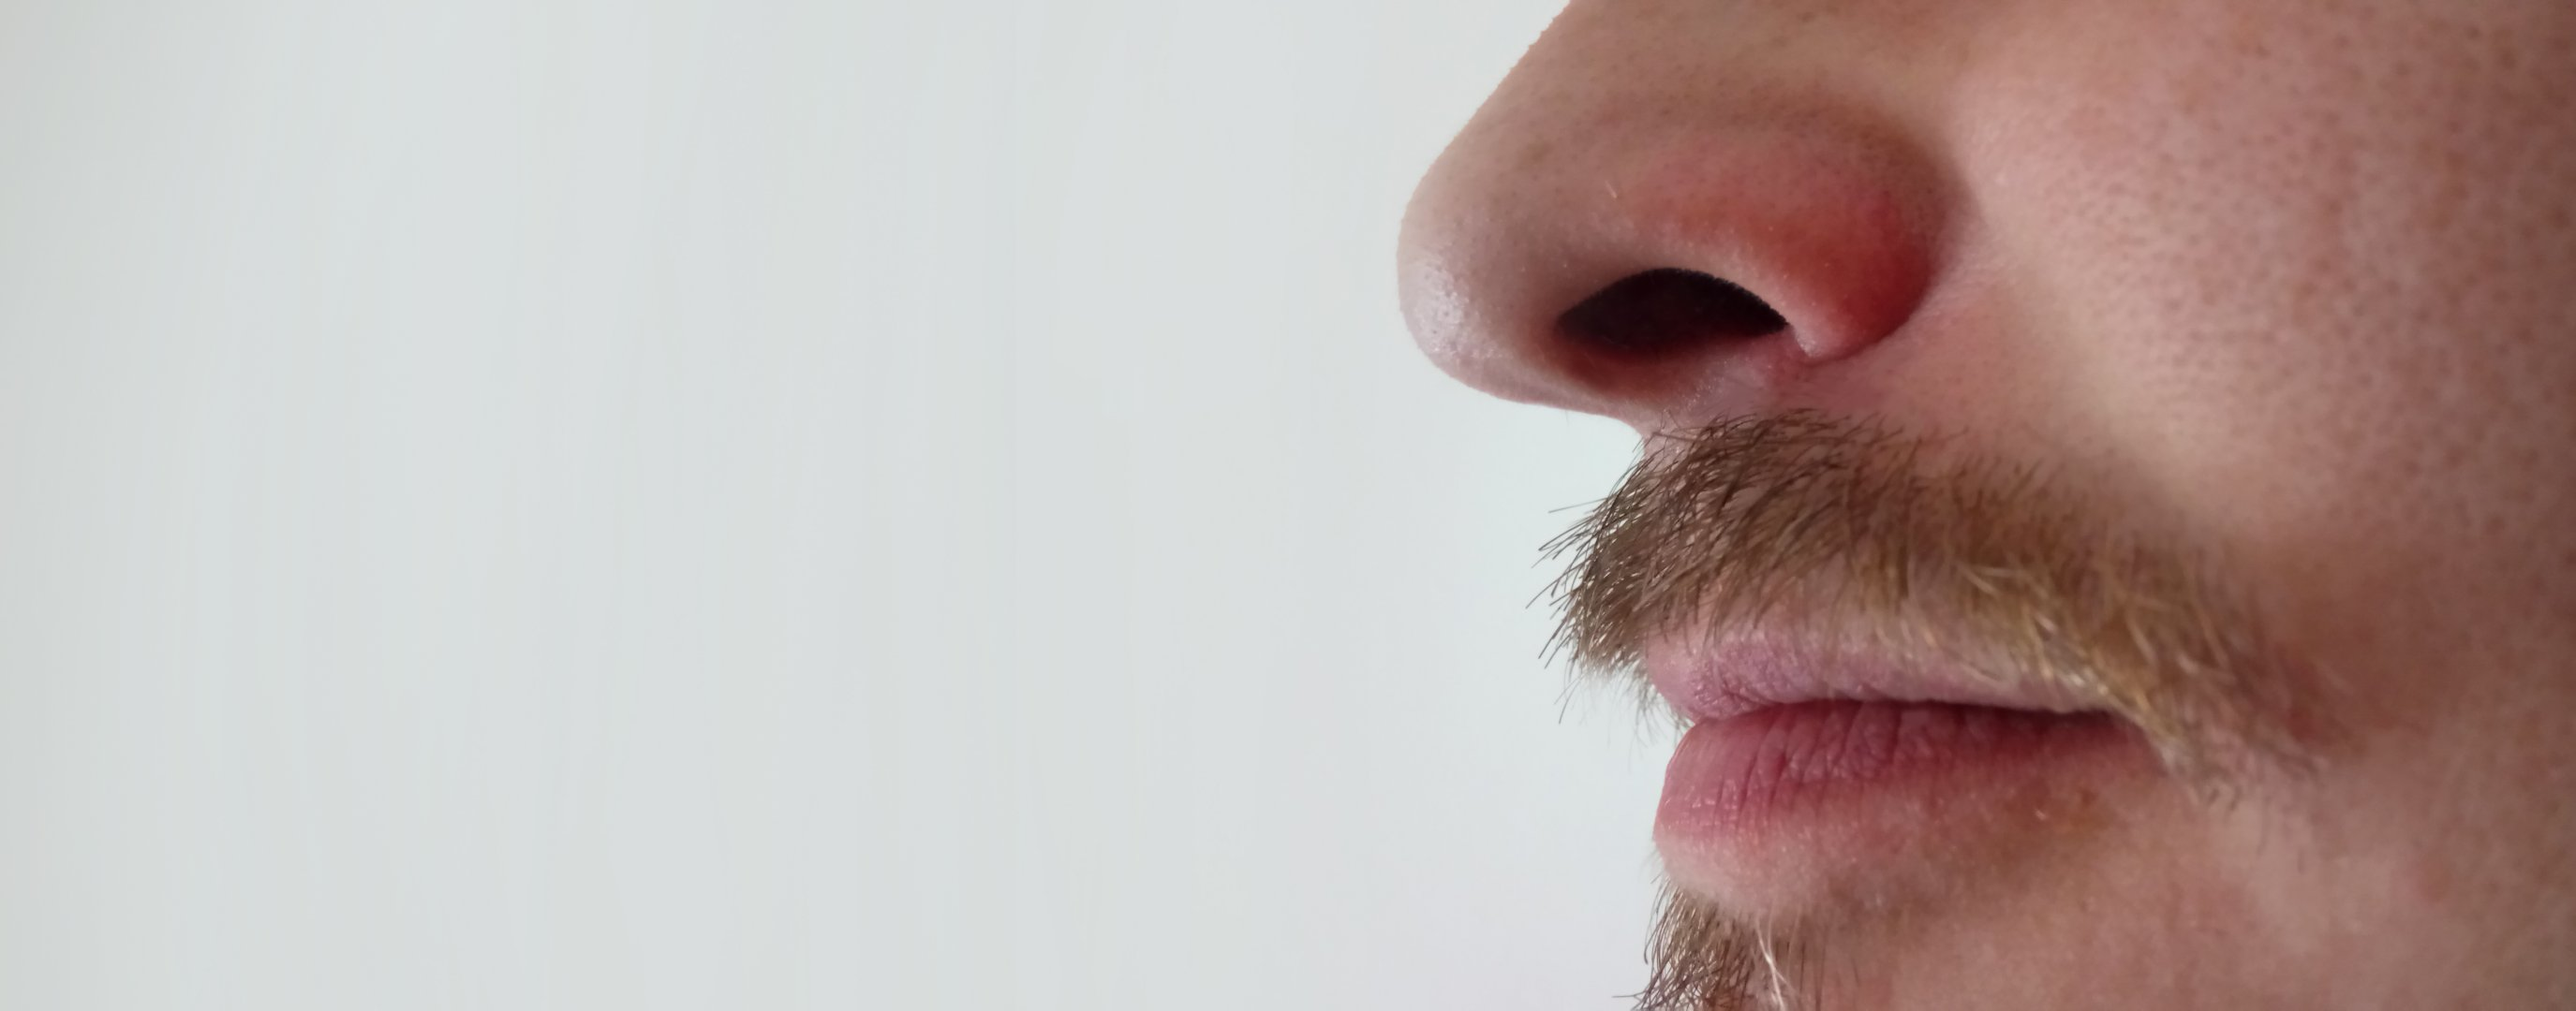
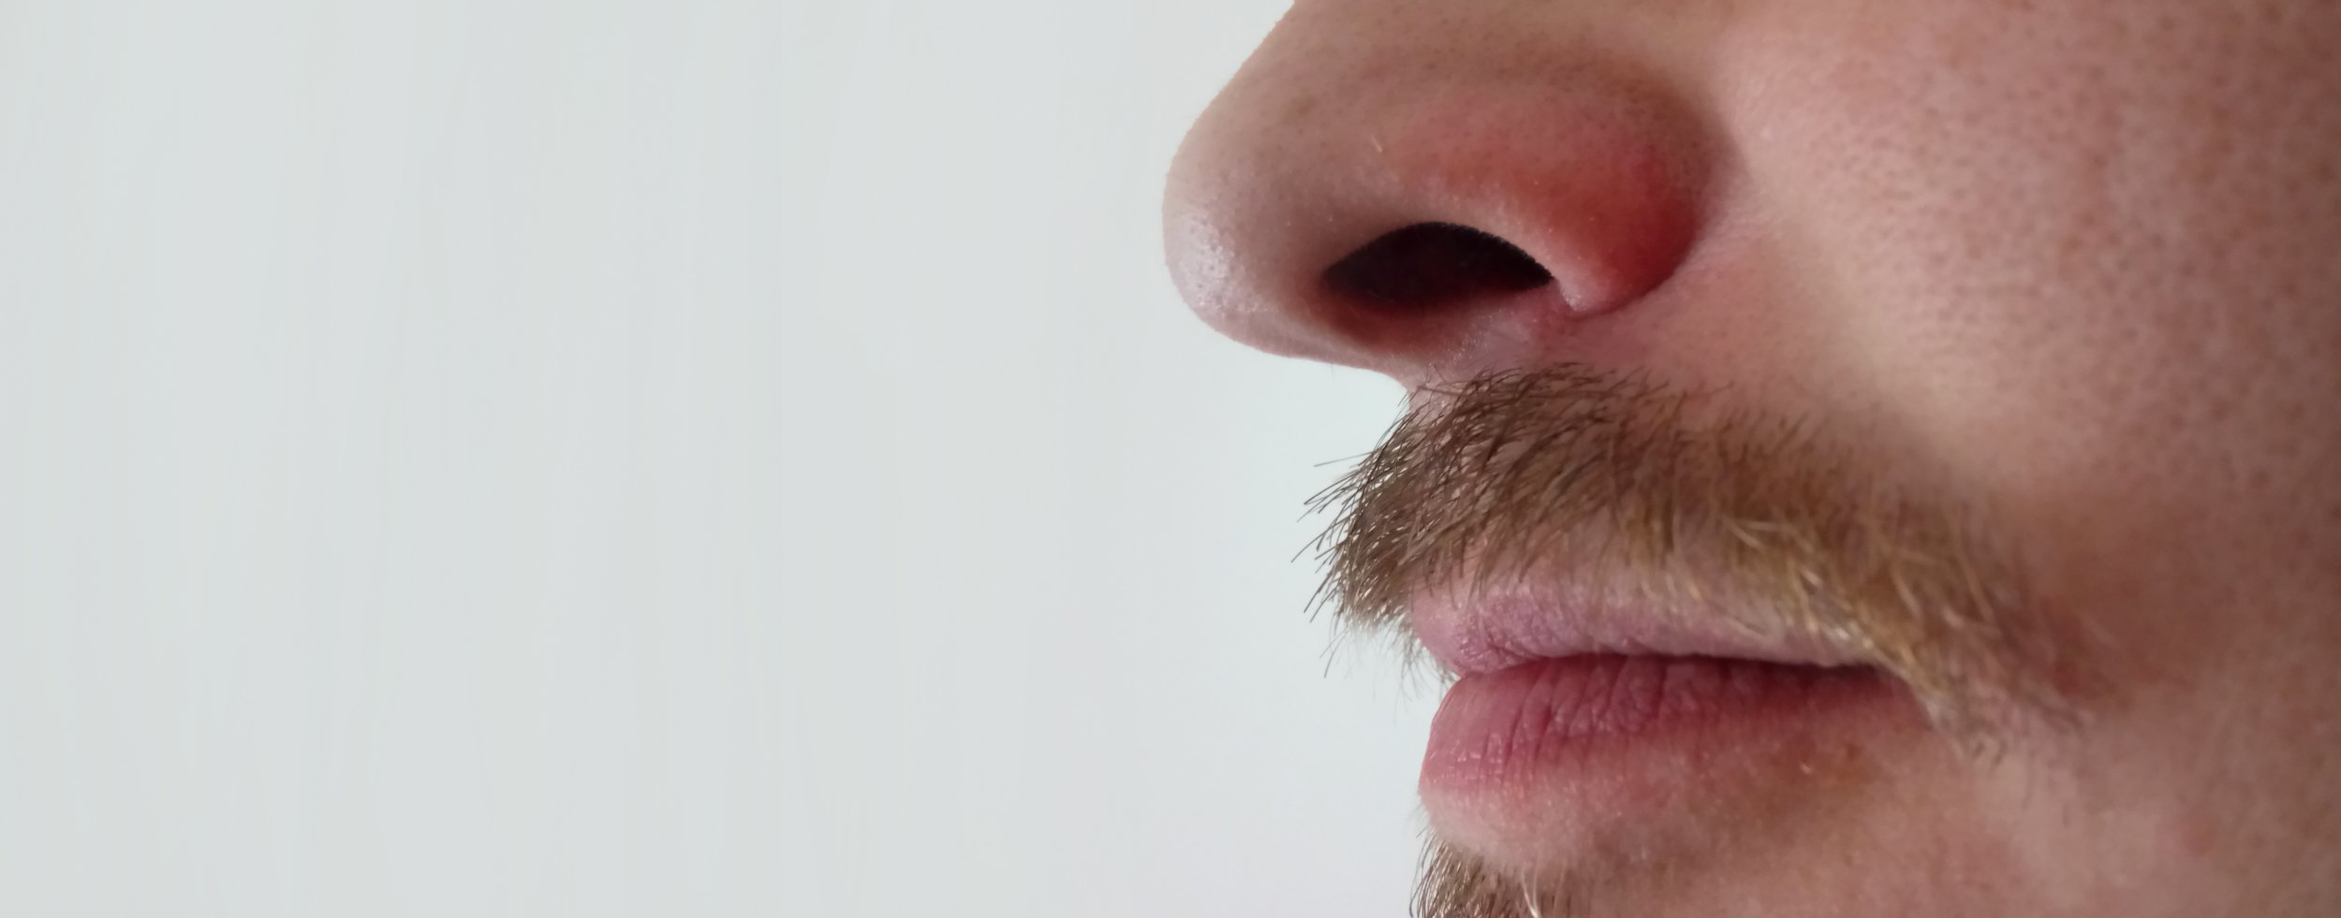
update

Changed region(s): [[0.4992, 0.0, 0.9048, 1.0], [0.6552, 0.0612, 0.6864, 0.0917]]

diff --git a/style/css/style.css b/style/css/style.css
@@ -53,42 +53,42 @@ a:visited {
  */
 @-webkit-keyframes resizebgimage {
   0% {
-    background-size: 100%;
+    background-size: auto 100%;
   }
   100% {
-    background-size: 115%;
+    background-size: auto 105%;
   }
 }
 @-moz-keyframes resizebgimage {
   0% {
-    background-size: 100%;
+    background-size: auto 100%;
   }
   100% {
-    background-size: 115%;
+    background-size: auto 105%;
   }
 }
 @-ms-keyframes resizebgimage {
   0% {
-    background-size: 100%;
+    background-size: auto 100%;
   }
   100% {
-    background-size: 115%;
+    background-size: auto 105%;
   }
 }
 @-o-keyframes resizebgimage {
   0% {
-    background-size: 100%;
+    background-size: auto 100%;
   }
   100% {
-    background-size: 115%;
+    background-size: auto 105%;
   }
 }
 @keyframes resizebgimage {
   0% {
-    background-size: 100%;
+    background-size: auto 100%;
   }
   100% {
-    background-size: 115%;
+    background-size: auto 105%;
   }
 }
 /* line 25, ../scss/sections/mastframe/_mastframe.scss */
@@ -102,19 +102,21 @@ a:visited {
   background-image: url("http://frasaleksander.github.io/images/front/aleksanderfras-2.jpg");
   background-position: center center;
   background-repeat: no-repeat;
-  background-size: 100%;
+  background-size: auto 100%;
   -webkit-filter: grayscale(1);
   -ms-filter: grayscale(1);
   -moz-filter: grayscale(1);
   -o-filter: grayscale(1);
   filter: grayscale(1);
-  background-size: 110%;
   -moz-animation-name: resizebgimage;
   -webkit-animation-name: resizebgimage;
   animation-name: resizebgimage;
-  -moz-animation-duration: 6s;
-  -webkit-animation-duration: 6s;
-  animation-duration: 6s;
+  -moz-animation-duration: 10s;
+  -webkit-animation-duration: 10s;
+  animation-duration: 10s;
+  -moz-animation-timing-function: ease-in;
+  -webkit-animation-timing-function: ease-in;
+  animation-timing-function: ease-in;
   -moz-animation-iteration-count: 1;
   -webkit-animation-iteration-count: 1;
   animation-iteration-count: 1;

diff --git a/style/scss/sections/mastframe/_mastframe.scss b/style/scss/sections/mastframe/_mastframe.scss
@@ -15,10 +15,10 @@ $mastframe-left:56px;
 
 @include keyframes(resizebgimage) {
     0% {
-        background-size: 100%;
+        background-size: auto 100%;
     }
     100% {
-        background-size: 115%;
+        background-size: auto 105%;
     }
 }
 
@@ -35,15 +35,15 @@ $mastframe-left:56px;
     background-image: url('http://frasaleksander.github.io/images/front/aleksanderfras-2.jpg');
     background-position:center center;
     background-repeat: no-repeat;
-    background-size:100%;
+    background-size:auto 100%;
     -webkit-filter: grayscale(1);
     -ms-filter: grayscale(1);
     -moz-filter: grayscale(1);
     -o-filter: grayscale(1);
     filter: grayscale(1);
-    background-size:110%;
     @include animation-name(resizebgimage);
-    @include animation-duration(6s);
+    @include animation-duration(10s);
+    @include animation-timing-function(ease-in);
     @include animation-iteration-count(1);
     @include animation-fill-mode(forwards);
 }
